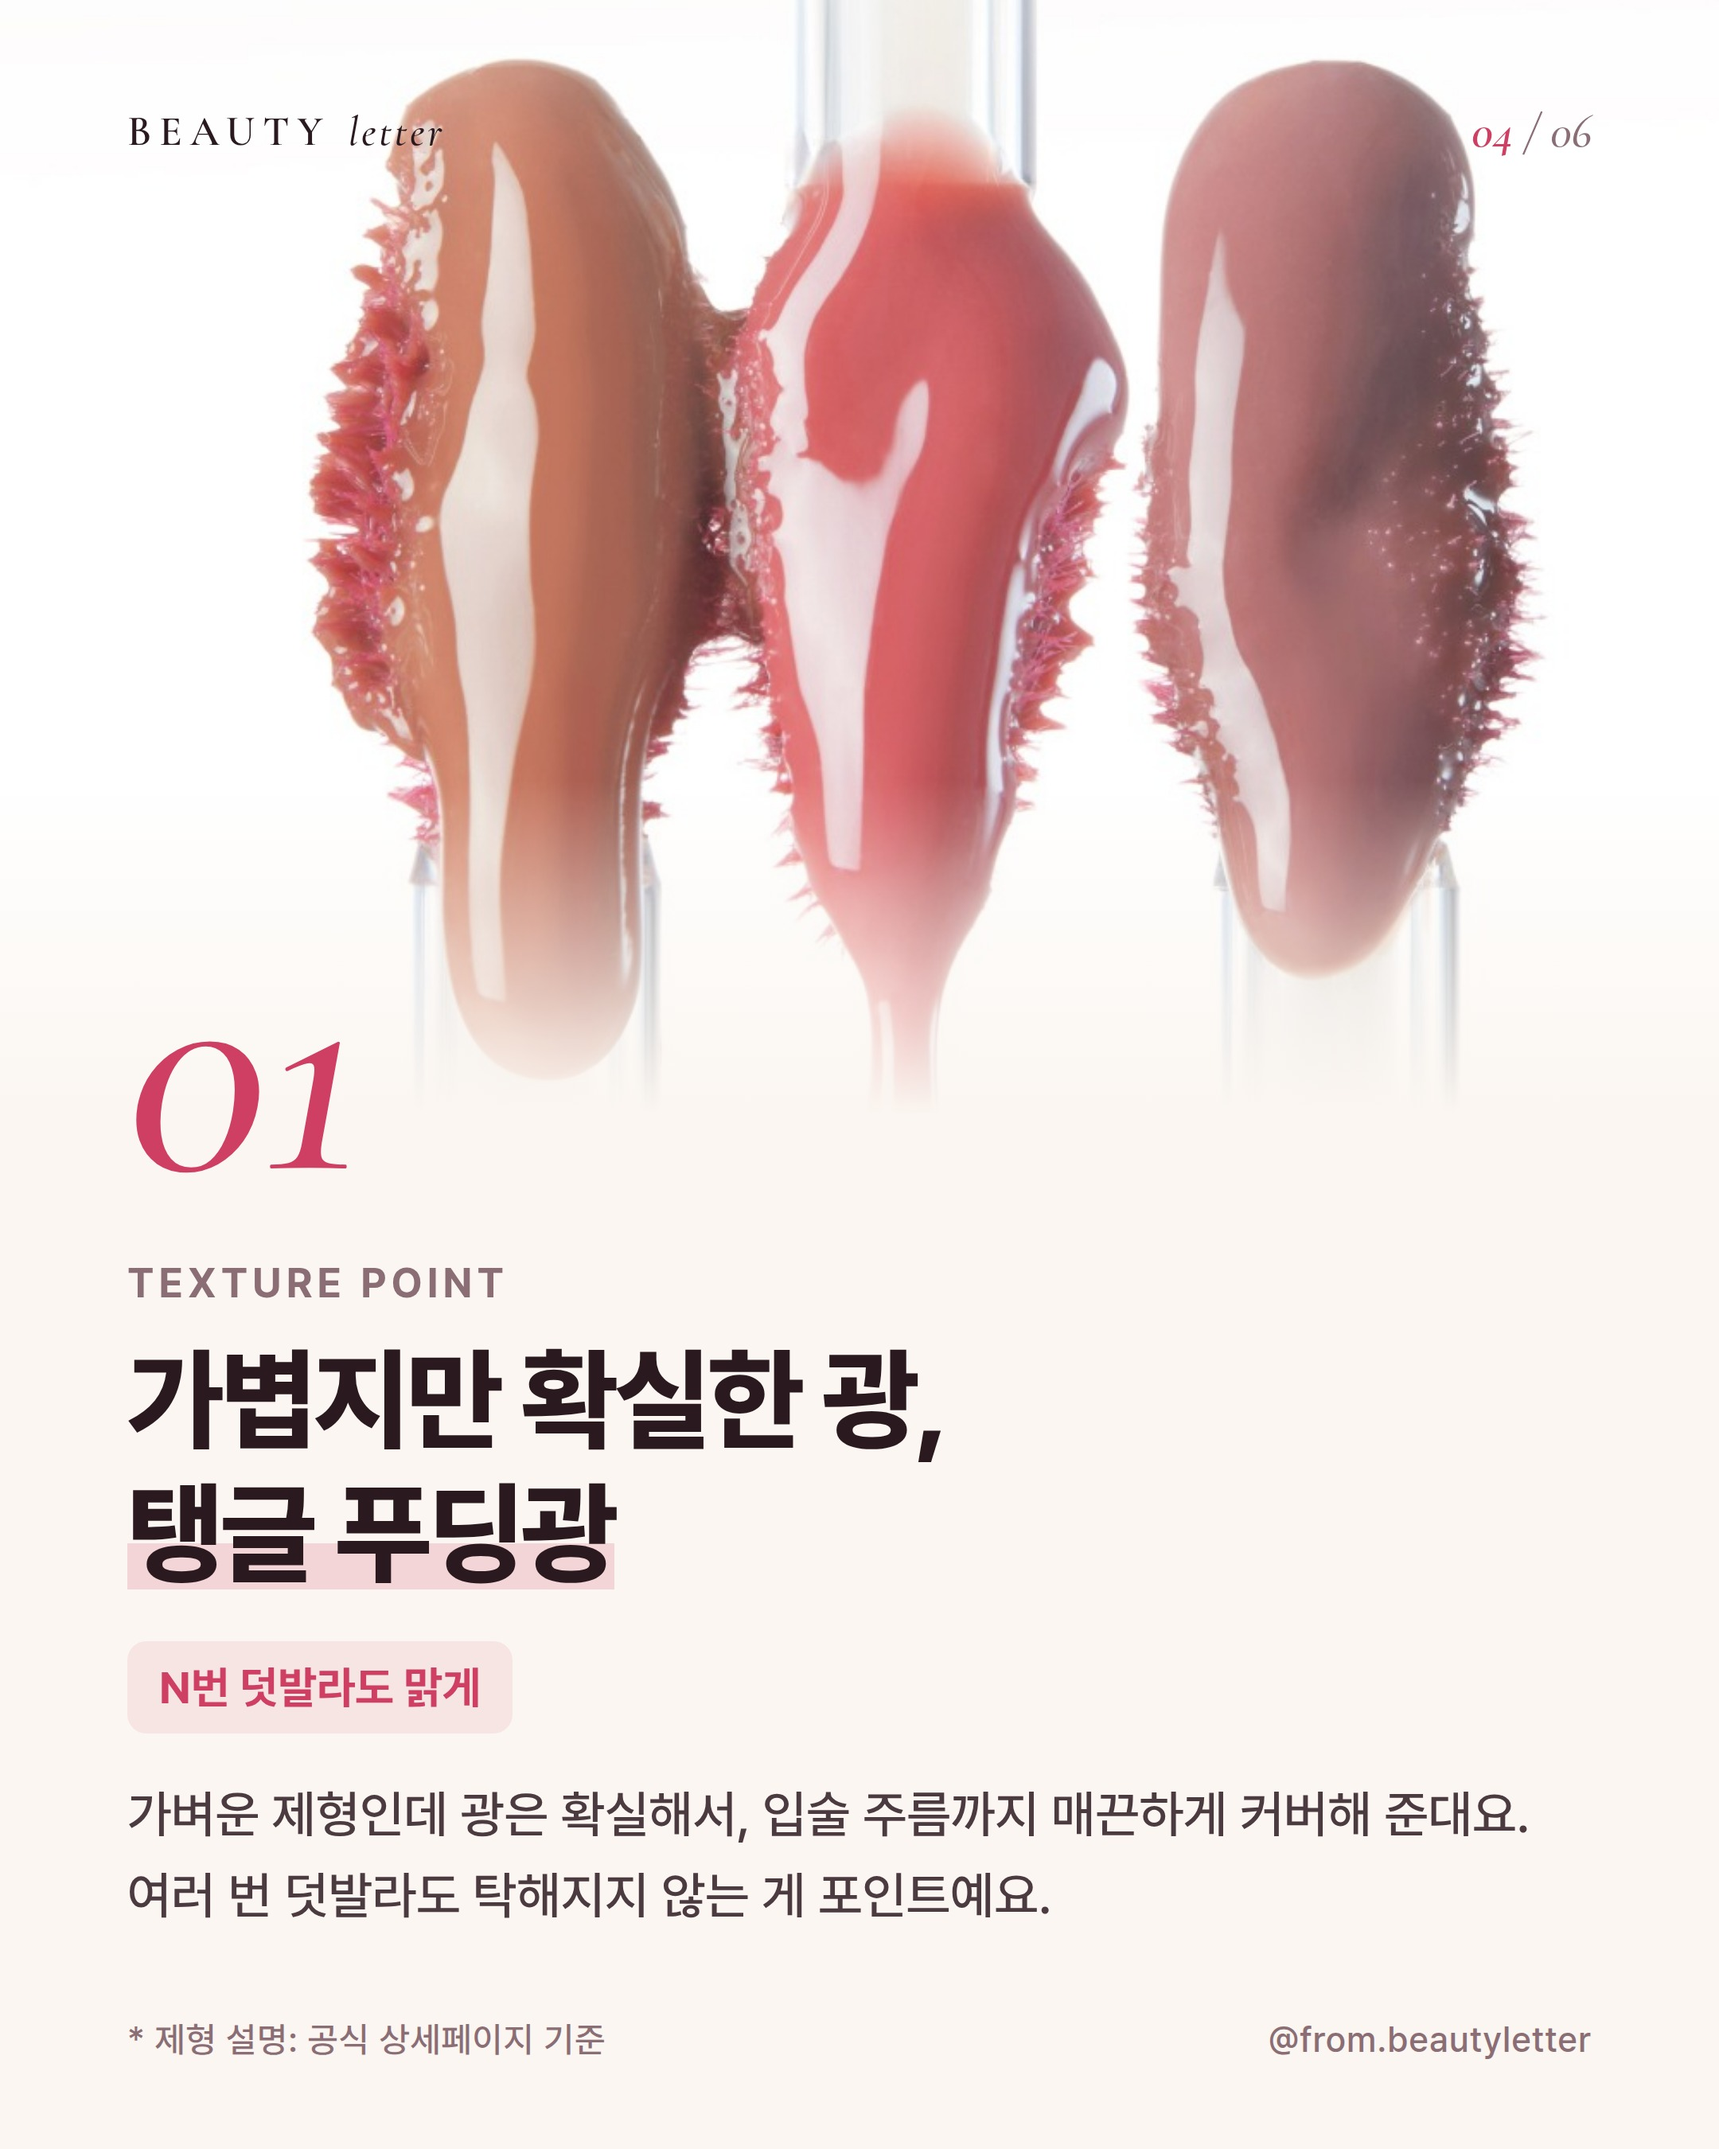
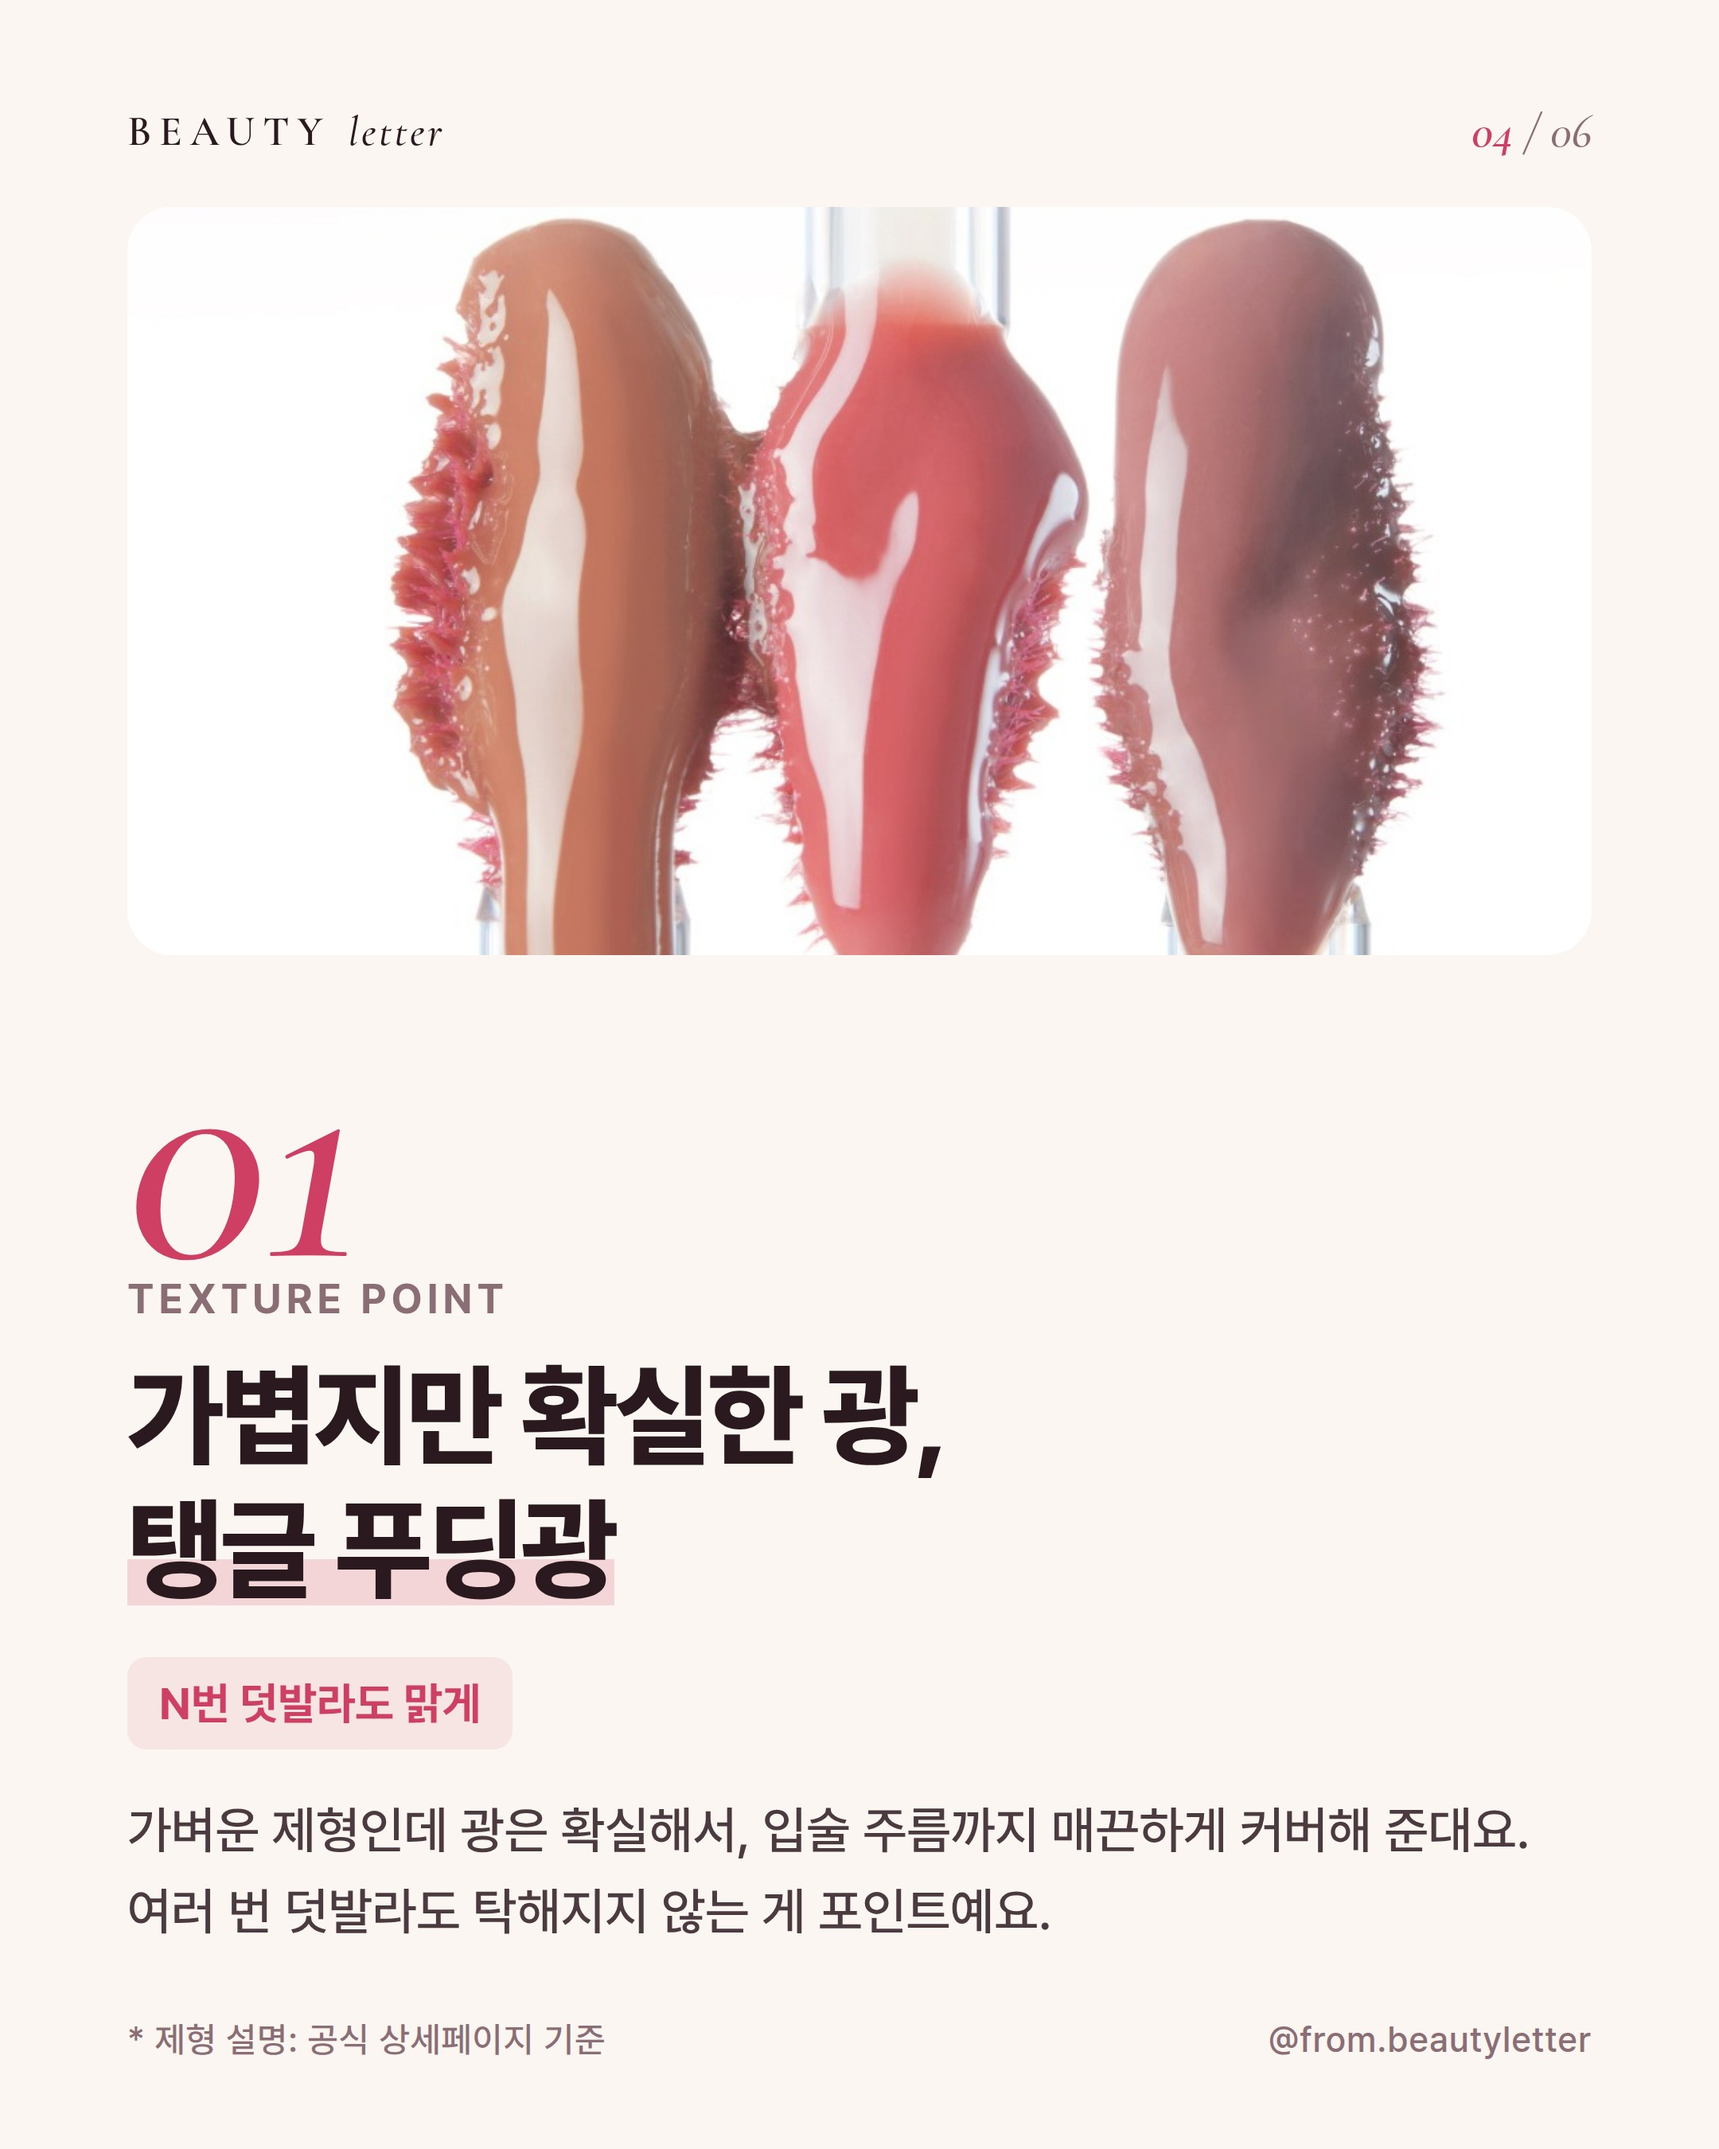
뷰티레터 No.01: 텍스처 장 상단 로고와 사진 겹침 수정
Claude-Session: https://claude.ai/code/session_01M29FXMb16fvzM5BCrcufte

diff --git a/design/beauty_news/samples/2026-10_peripera_mood_glowy/slides.html b/design/beauty_news/samples/2026-10_peripera_mood_glowy/slides.html
@@ -27,10 +27,10 @@
   border: 2px solid var(--rose); border-radius: 999px; padding: 6px 30px 10px;
 }
 .spec .spec-row { font-size: 29px; padding: 26px 4px; }
-.point .photo-wrap { background: #fff; }
+.point .photo-wrap { background: #fff; top: 130px; left: var(--pad); right: var(--pad); height: 470px; border-radius: 28px; overflow: hidden; }
 .point .photo-wrap img { position: absolute; inset: 0; width: 100%; height: 100%; object-fit: cover; object-position: center 20%; }
-.point .photo-wrap::after { background: linear-gradient(180deg, transparent 70%, var(--cream)); }
-.point .num { top: 570px; } .point .body { top: 790px; }
+.point .photo-wrap::after { display: none; }
+.point .num { top: 625px; } .point .body { top: 800px; }
 </style>
 </head>
 <body>
